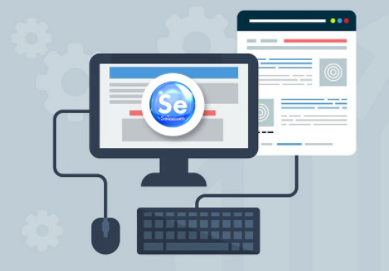
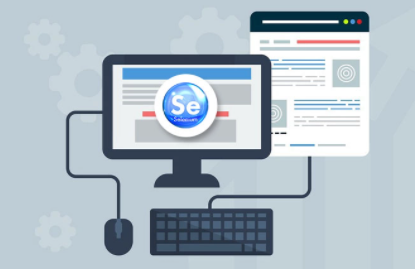
delete duplicated pictures

Changed region(s): [[0.1234, 0.0297, 0.9254, 0.9517]]

diff --git a/side_project.html b/side_project.html
@@ -148,7 +148,7 @@
       <h2> Scraping Glassdoor Data With Selenium </h2>
       <span class="style">&nbsp;
 	
-    	 <a href="https://github.com/yingli9718/ds_salary_proj"><img src="side_project_files/webscraping2.png" alt="bar" height="123" width="200"; hspace="20"; vspace="20";text-align: left; align="left"></a>
+    	 <a href="https://github.com/yingli9718/ds_salary_proj"><img src="side_project_files/webscraping.png" alt="bar" height="123" width="200"; hspace="20"; vspace="20";text-align: left; align="left"></a>
 	  <p> Using the Selenium library to collect the information from Glassdoor.com
 	  <br>  
 	  <br><i class="fas fa-edit"></i>&nbsp;&nbsp;  <!--https://www.presentslide.in/2019/09/extracting-youtube-data-api-python.html?utm_campaign=News&utm_medium=Community&utm_source=DataCamp.com -->
